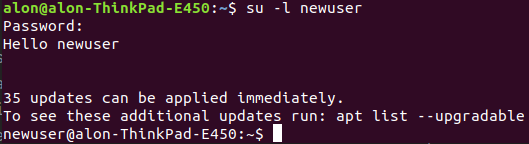
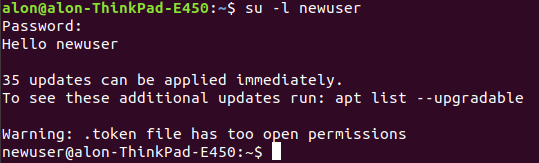
ex1 bash

diff --git a/01_default_profile_new_users.md b/01_default_profile_new_users.md
@@ -1,25 +1,54 @@
 # Default profile for new Linux Users
 
-In this exercise, you will implement a bash script which 
+In this exercise, you will implement a bash script which apply default Bash profile configurations for new added Linux users.
 
-need to read the **useradd** man pages, because we are going to use the /etc/skel
-directory to hold default shell configuration files, which are copied to the home directory of each newly added
-user.
+## Perliminaries 
 
-This should be run in Ubuntu 
+Open (or clone if you didn't do it yet) [our shared git repo](https://github.com/alonitac/DevOpsMay22.git) in PyCharm (Git -> clone...) and pull the repository ![Pull Button](img/pull.png) to get an up-to-date version. 
+From Pycharm button right bar, create your own git branch (Git branches will be discussed later):
+
+![New Branch](img/branch.png)
+
+Then change `<alias>` to your nickname. e.g. `bash_ex1/alonit`. The branch name must start with `bash_ex1/`
+
+![Branch Name](img/branch2.png)
+
+Let's get started... 
 
 
 ## Background 
 
 The `/etc/skel` directory provide a way to assure new users are added to your Linux system has default 
-Bash configurations.
-When adding a new user with **useradd**, use the `-m` parameter, which tells `useradd` to create the user's home directory and copy files from `/etc/skel` to the new user's home directory.
+Bash profile configurations.
+When adding a new user with **useradd** (with the `-m` parameter), it will create the user's home directory and copy files from `/etc/skel` to the new user's home directory.
+
+## Guidelines
+
+Note: should be done in Ubuntu systems.
 
 1. In `/etc/skel` edit `.bash_profile` file using your favorite text editor (`nano`, `vi` etc...) as below. If this file already exists, append your code at the end (it's highly recommended to making a backup copy before). 
    1. Greet the user. e.g. if the user is **john**, the message `Hello john` will be printed to stdout (standard output). 
-   1. Print how many packages are outdated (`/usr/lib/update-notifier/apt-check --human-readable`).
-2. Create a new Linux user using `useradd` command.
+   2. Print how many packages are outdated (`/usr/lib/update-notifier/apt-check --human-readable`).
+   3. Given a file called `.token` in the home directory of the user, check the file permission. If the octal representation of the permission set is different from 600 (read and write by the user **only**), print a warning message to the user:
+      **Warning: .token file has too open permissions** 
+      User `stat -c %a` to get the octal permission of the file. Use _if_ statements to test if the file exists, and the permissions not equal to "600". 
+2. Create a new Linux user using `useradd` command. If everything done well, the new user should have the custom script profile. 
 3. Login to the new user terminal session: `su -l <username>`. Replace `<username>` to the created user.
    The output should be similar to:
    ![userlogin](img/userlogin.png)
-      
+
+## Submission 
+
+At the end of the above guidelines, under `ex1_sol/customUserProfile.sh` in our shared repo, create a complete bash script that set a custom profile for new users. 
+What does it mean? Given a new clean installation of Ubuntu system, after running your script by `./customUserProfile.sh`, every new created user in this system should have a bash profile as described above. It means that your script should go to `/etc/skel`, edit the `.bash_profile` file and so on... 
+
+Remarks:
+   - You may assume that `etc/skel` exists, but not `.bash_profile` file (search how to check if a file exist).
+   - Your script should run and complete without errors.
+   - You can assume that the user that run your script is root (so no need to use `sudo`).
+
+Finally, _commit_ ![commit](img/commit.png)  **only** `ex1_sol/customUserProfile.sh` file as your solution. After clicking on commit button, write a commit message and make sure only your single solution file is committed, as follows:
+![commitmsg](img/commitmsg.png).
+Then _push_ ![push](img/push.png) your solution to GitHub. 
+
+## Well done!
